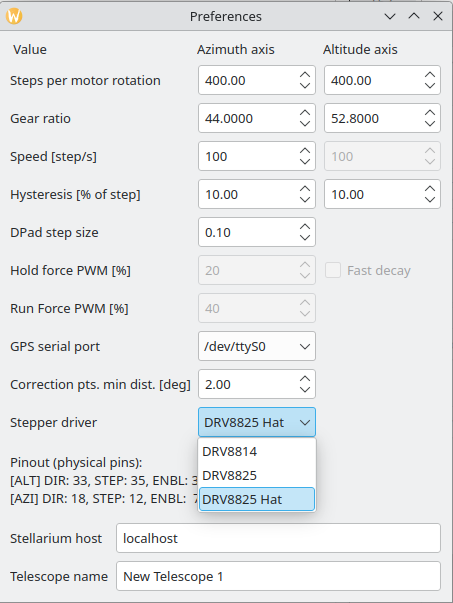
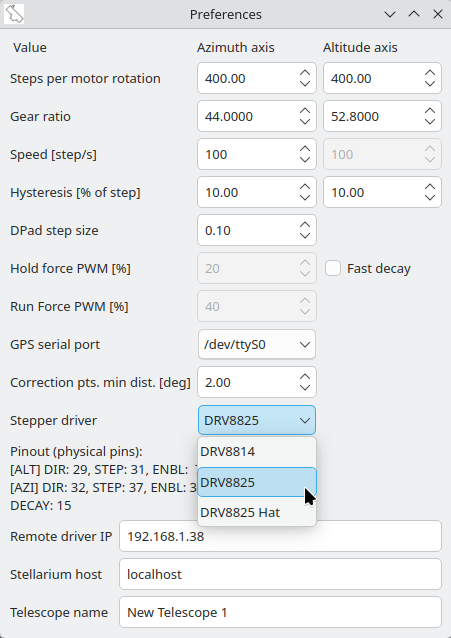
update info about remote driver

diff --git a/README.md b/README.md
@@ -18,6 +18,7 @@ I wanted to make a simple to use interface to drive a dobsonian telescope. It sh
 * Qt
 * Qt serialport module
 * Qt charts module
+* SDL3 library
 * xdo3 library (optional)
 
 
@@ -25,7 +26,7 @@ I wanted to make a simple to use interface to drive a dobsonian telescope. It sh
 
 * Altzimuth telescope
 * 3D-printed parts and bearings - see mechanical/telescope.FCStd. Parts are compatible with FreeCAD 1.1rc1.
-* Raspberry Pi
+* Raspberry Pi (1-4, 5 is not supported by pigpio)
 * Two bipolar stepper motors
 * Two stepper motor drivers DRV8814 OR two DRV8825 drivers (L298 is deprecated in master, see wiringpi-legacy branch)
 * (Optional) Gamepad
@@ -77,10 +78,23 @@ If you want use GPS, enable UART in the rpi-config utility.
 
 [uart]: https://raw.githubusercontent.com/kwahoo2/Mortar/master/.github/images/rpi-config.png "Raspberry UART setup" 
 
+### pigpio library
+
+pigpio is available only for Raspberry Pi 1 to 4, it cannot be used with Pi 5.
+Since Debian Trixie pigpio package is not longer available. User has to compile it manually.
+
+```
+wget https://github.com/joan2937/pigpio/archive/refs/tags/v79.tar.gz
+tar zxf v79.tar.gz
+cd pigpio-79
+make
+sudo make install
+```
+
 Download, compile and run the software.
 
 ```
-sudo apt install qtbase5-dev libqt5serialport5-dev libqt5charts5-dev libxdo-dev pigpio libsdl3-dev
+sudo apt install qtbase5-dev libqt5serialport5-dev libqt5charts5-dev libxdo-dev libsdl3-dev
 git clone --recurse-submodules https://github.com/kwahoo2/Mortar 
 cd Mortar
 mkdir -p build
@@ -155,13 +169,15 @@ Now you can run Mortar by double clicking on the Mortar.sh script.
 
 
 ## Disabling steppers at Pi boot
-Raspberry starts GPIO in an unknown state, stepper motors may consume some energy, before Mortar is even started. To avoid this, you can set AENBL and BENBL pins to low at the RPi OS boot.
+Raspberry starts GPIO in an unknown state, stepper motors may consume some energy, before Mortar is even started. To avoid this, you can set ENBL pins to low (or high in the case of DRV 8825 Hat) at the RPi OS boot.
 
 Edit:
 
-    /boot/config.txt
+    /boot/firmware/config.txt
 
 and add following lines:
+
+If DRV8814 board is used,
 
 ```
 gpio=4=op,dl
@@ -170,7 +186,66 @@ gpio=20=op,dl
 gpio=21=op,dl
 ```
 
-## Board testing, alternative usages
+If DRV8825 is used (pinout as in the preferences tab),
+
+```
+gpio=4=op,dh
+gpio=20=op,dh
+```
+
+If DRV8825 Hat (Waveshare) is used,
+
+```
+gpio=4=op,dl
+gpio=12=op,dl
+```
+
+## Using on PC with remote Pi driver
+
+Mortar can be compiled without GPIO support and ran on any PC. In that case you should run cli driver, on a remote Pi and connect with it from a PC.
+
+Compile the remote driver (on the Pi):
+
+```
+cd Mortar/pi\ remote\ driver/
+mkdir -p build
+cd build
+cmake ..
+make
+```
+
+Run the driver:
+
+```
+sudo ./Mortar-Remote-Driver
+```
+
+You may also like to limit allowed client IP:
+
+```
+sudo ./Mortar-Remote-Driver xxx.xxx.xxx.xxx
+```
+
+Then run the Mortar on the PC, fill remote driver IP in the preferences and click on "Connect to remote driver".
+
+The Pi driver should show something like:
+
+```
+sudo ./Mortar-Remote-Driver 
+No IP restriction. All IPs are allowed.
+Server listening on port 2137...
+Connection accepted from: 192.168.1.28
+Azi speed: 100
+Alt speed: 100
+Hold PWM: 20
+Run PWM: 40
+Driver id: 1
+Fast decay: 0
+Disable steppers: 0
+Shutter mode: 0
+```
+
+## Board testing, alternative usages for the DRV8814 board
 There is a very basic Python script ([mortartest.py](https://github.com/kwahoo2/Mortar/blob/master/basic-test-py/mortartest.py)) that allows using the MortarShield as basic stepper driver. It can be used as an example for building other scripts too.
 
 Before running it you have to have the pigpio daemon running:
@@ -190,10 +265,6 @@ python
 import mortartest
 mortartest.move_stepper_to(50, 0) # move first (0) stepper 50 steps forward, ALT stepper is 0, AZI is 1
 ```
-## WiringPi legacy brach
-
-wiringpi-legacy branch contains a deprecated implementation using WiringPi instead of pigpio. That brach supports full-step operation only. 
-
 
 ## License
 
